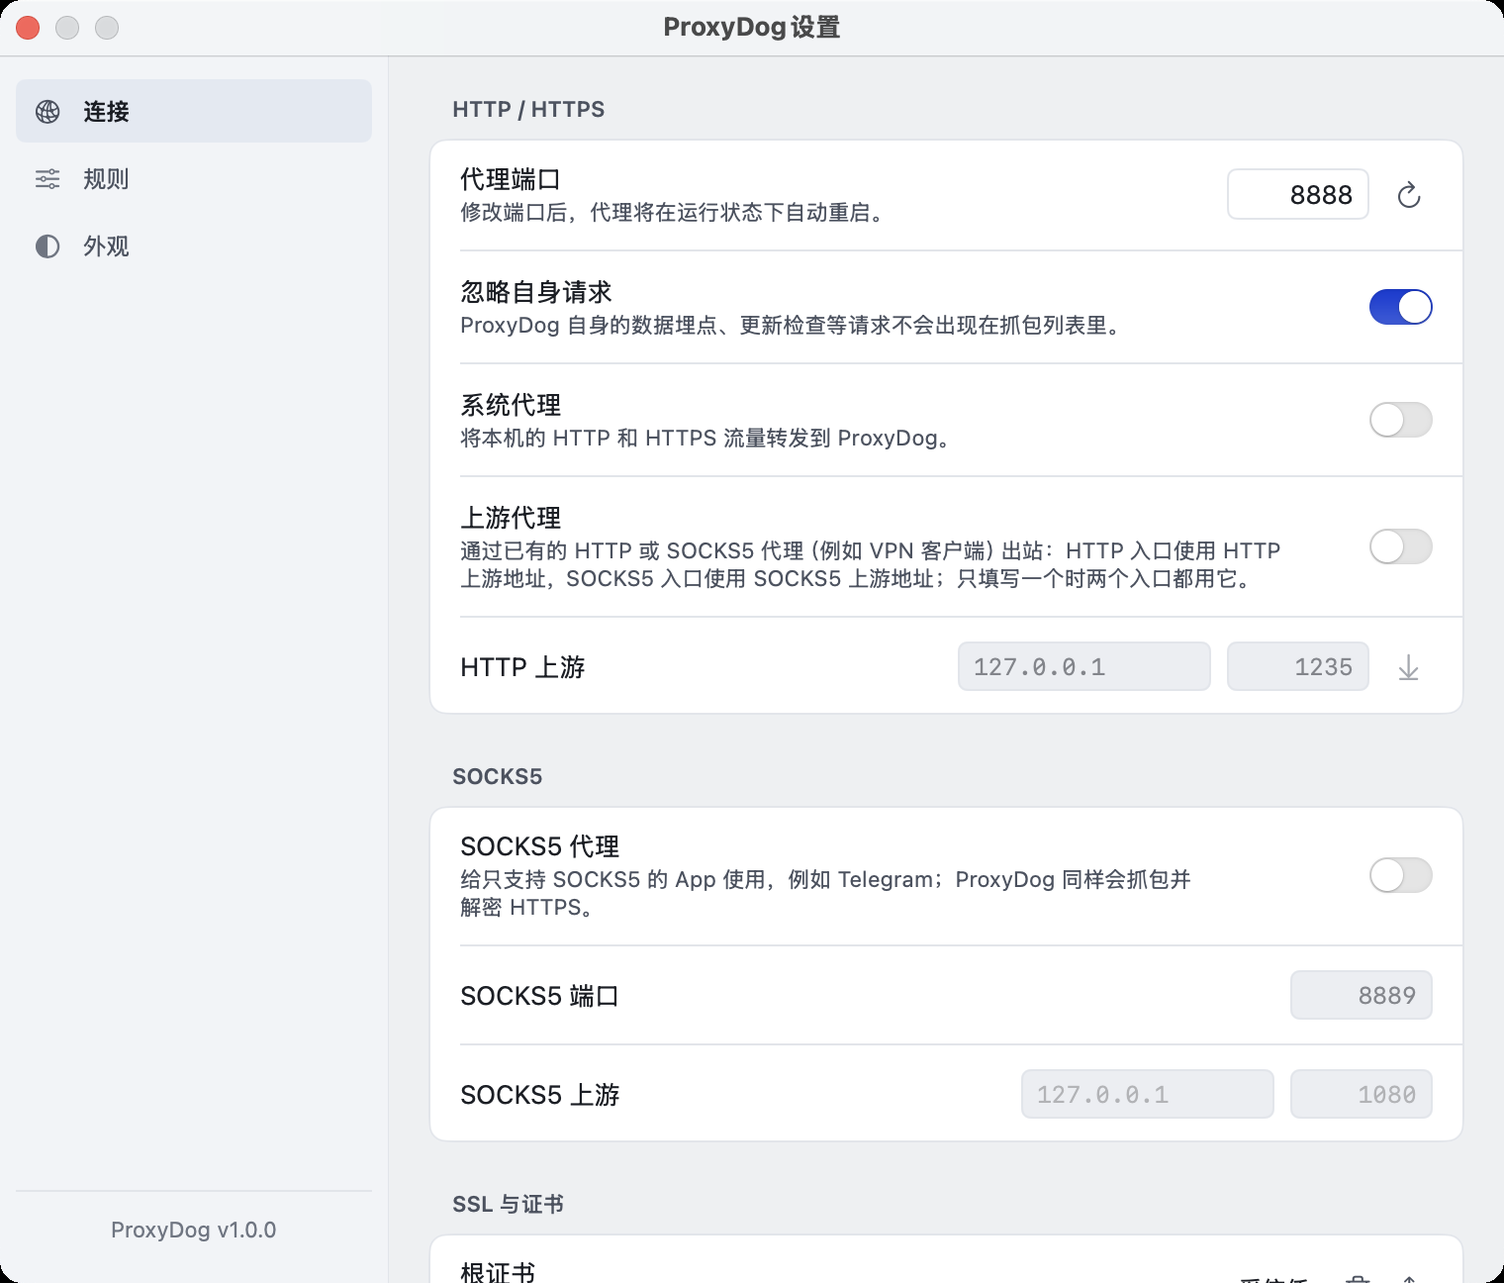
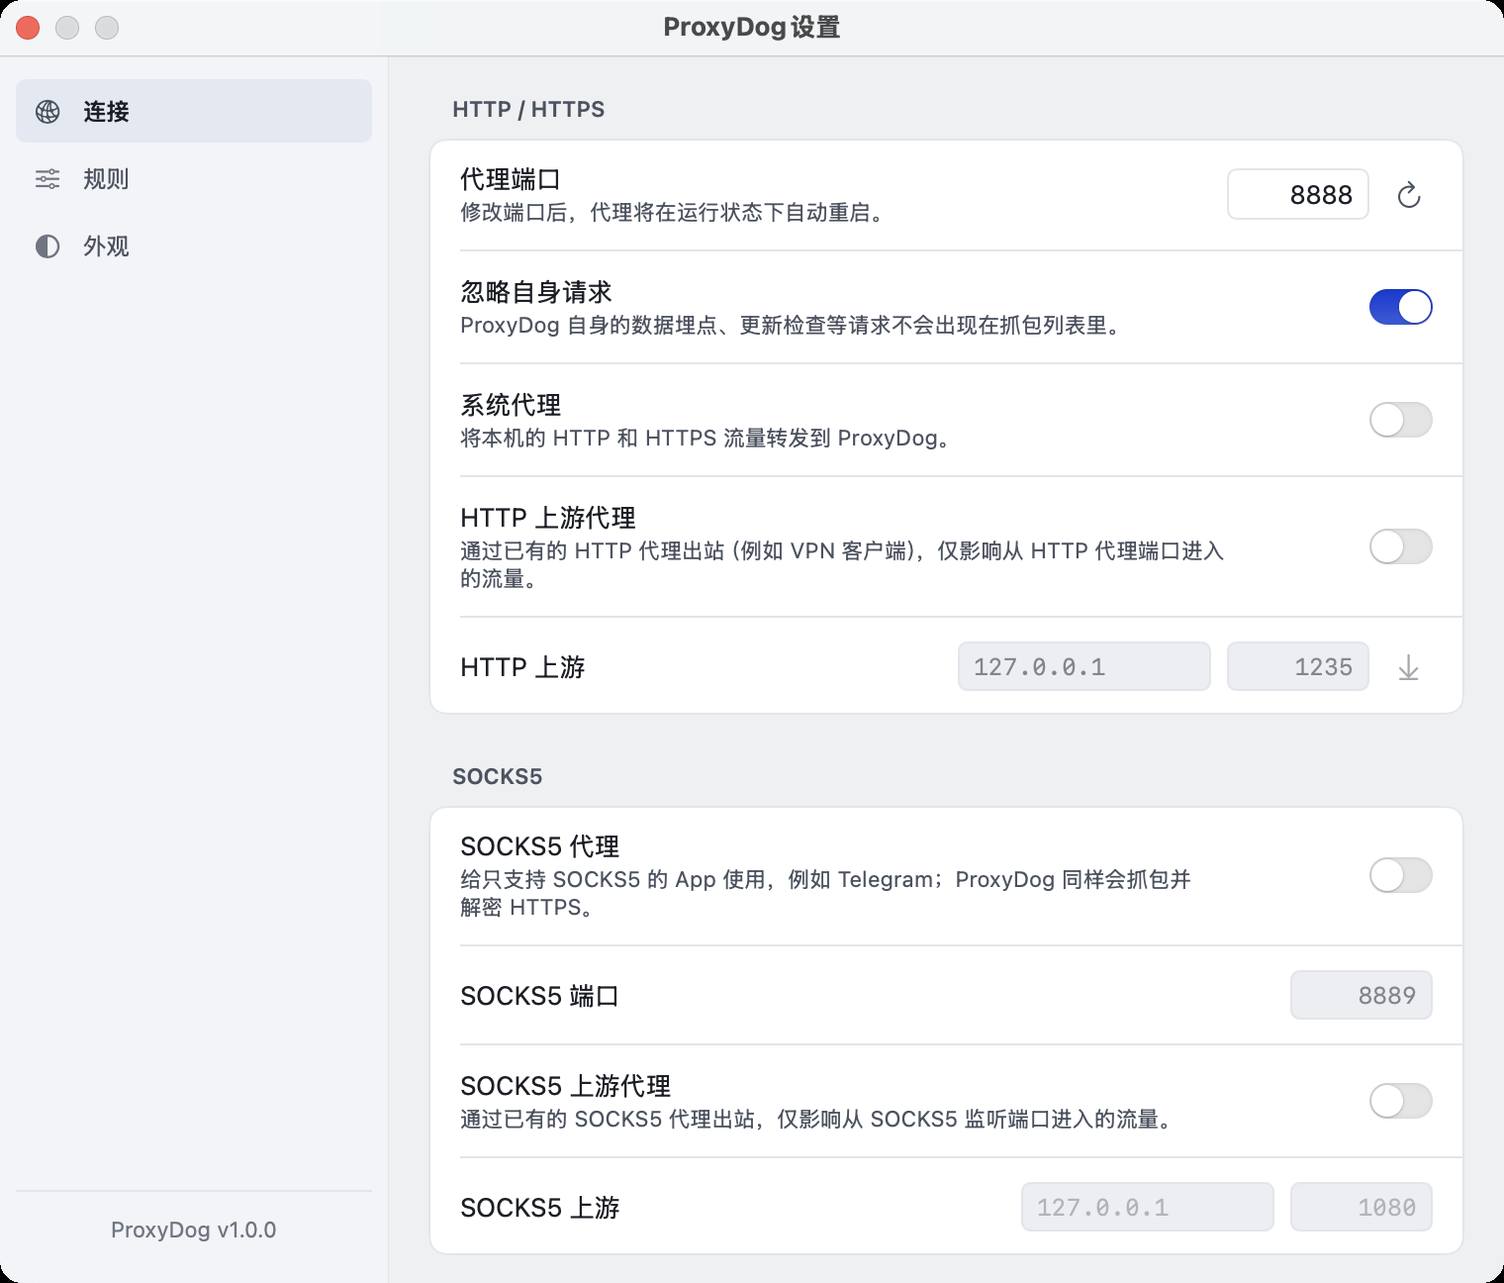
Give the HTTP and SOCKS5 upstreams independent switches

diff --git a/Sources/ProxyDog/UI/SettingsView.swift b/Sources/ProxyDog/UI/SettingsView.swift
@@ -251,18 +251,18 @@ struct SettingsView: View {
                 }
                 SettingsHairline()
                 SettingsRow(
-                    title: "Upstream proxy",
-                    hint: "Sends outbound traffic through an existing proxy such as a VPN client. Traffic from the HTTP proxy uses the HTTP address, traffic from the SOCKS5 listener uses the SOCKS5 address; when only one is filled both use it."
+                    title: "HTTP upstream proxy",
+                    hint: "Chains outbound traffic through an existing HTTP proxy such as a VPN client. Only affects traffic entering through the HTTP proxy port."
                 ) {
                     Toggle("", isOn: Binding(
-                        get: { settings.upstreamProxyEnabled },
-                        set: { setUpstreamEnabled($0) }
+                        get: { settings.upstreamHTTPEnabled },
+                        set: { setUpstreamEnabled($0, kind: .httpConnect) }
                     ))
                     .labelsHidden()
                     .toggleStyle(.switch)
                     .controlSize(.small)
                     .tint(DSColor.accent)
-                    .accessibilityLabel("Upstream proxy")
+                    .accessibilityLabel("HTTP upstream proxy")
                 }
                 SettingsHairline()
                 SettingsRow(
@@ -278,12 +278,12 @@ struct SettingsView: View {
                             .frame(width: 112)
                             .padding(.horizontal, DS.Space.x2)
                             .padding(.vertical, 5)
-                            .background(fieldBackground(isFocused: upstreamHTTPHostFocused, isEnabled: settings.upstreamProxyEnabled))
+                            .background(fieldBackground(isFocused: upstreamHTTPHostFocused, isEnabled: settings.upstreamHTTPEnabled))
                             .onSubmit { commitUpstreamAddress(.httpConnect) }
                             .onChange(of: upstreamHTTPHostFocused) { _, focused in
                                 if !focused { commitUpstreamAddress(.httpConnect) }
                             }
-                            .disabled(!settings.upstreamProxyEnabled)
+                            .disabled(!settings.upstreamHTTPEnabled)
                         TextField(detectedUpstreamPort, text: $upstreamHTTPPortText)
                             .textFieldStyle(.plain)
                             .font(DS.Typography.mono(12))
@@ -293,7 +293,7 @@ struct SettingsView: View {
                             .frame(width: 56)
                             .padding(.horizontal, DS.Space.x2)
                             .padding(.vertical, 5)
-                            .background(fieldBackground(isFocused: upstreamHTTPPortFocused, isEnabled: settings.upstreamProxyEnabled))
+                            .background(fieldBackground(isFocused: upstreamHTTPPortFocused, isEnabled: settings.upstreamHTTPEnabled))
                             .onSubmit { commitUpstreamAddress(.httpConnect) }
                             .onChange(of: upstreamHTTPPortText) { _, newValue in
                                 let filtered = String(newValue.filter(\.isNumber).prefix(5))
@@ -302,13 +302,13 @@ struct SettingsView: View {
                             .onChange(of: upstreamHTTPPortFocused) { _, focused in
                                 if !focused { commitUpstreamAddress(.httpConnect) }
                             }
-                            .disabled(!settings.upstreamProxyEnabled)
+                            .disabled(!settings.upstreamHTTPEnabled)
                         SettingsIconButton(
                             systemName: "arrow.down.to.line",
                             help: String(localized: "Fill from system proxy"),
                             action: fillUpstreamFromSystem
                         )
-                        .disabled(!settings.upstreamProxyEnabled)
+                        .disabled(!settings.upstreamHTTPEnabled)
                     }
                 }
             }
@@ -354,6 +354,21 @@ struct SettingsView: View {
                 }
                 SettingsHairline()
                 SettingsRow(
+                    title: "SOCKS5 upstream proxy",
+                    hint: "Chains traffic from the SOCKS5 listener through an existing SOCKS5 proxy. Only affects traffic entering through the SOCKS5 listener port."
+                ) {
+                    Toggle("", isOn: Binding(
+                        get: { settings.upstreamSOCKSEnabled },
+                        set: { setUpstreamEnabled($0, kind: .socks5) }
+                    ))
+                    .labelsHidden()
+                    .toggleStyle(.switch)
+                    .controlSize(.small)
+                    .tint(DSColor.accent)
+                    .accessibilityLabel("SOCKS5 upstream proxy")
+                }
+                SettingsHairline()
+                SettingsRow(
                     title: "SOCKS5 upstream",
                     errorText: upstreamErrorKind == .socks5 ? upstreamError : nil
                 ) {
@@ -366,12 +381,12 @@ struct SettingsView: View {
                             .frame(width: 112)
                             .padding(.horizontal, DS.Space.x2)
                             .padding(.vertical, 5)
-                            .background(fieldBackground(isFocused: upstreamSOCKSHostFocused, isEnabled: settings.upstreamProxyEnabled))
+                            .background(fieldBackground(isFocused: upstreamSOCKSHostFocused, isEnabled: settings.upstreamSOCKSEnabled))
                             .onSubmit { commitUpstreamAddress(.socks5) }
                             .onChange(of: upstreamSOCKSHostFocused) { _, focused in
                                 if !focused { commitUpstreamAddress(.socks5) }
                             }
-                            .disabled(!settings.upstreamProxyEnabled)
+                            .disabled(!settings.upstreamSOCKSEnabled)
                         TextField("1080", text: $upstreamSOCKSPortText)
                             .textFieldStyle(.plain)
                             .font(DS.Typography.mono(12))
@@ -381,7 +396,7 @@ struct SettingsView: View {
                             .frame(width: 56)
                             .padding(.horizontal, DS.Space.x2)
                             .padding(.vertical, 5)
-                            .background(fieldBackground(isFocused: upstreamSOCKSPortFocused, isEnabled: settings.upstreamProxyEnabled))
+                            .background(fieldBackground(isFocused: upstreamSOCKSPortFocused, isEnabled: settings.upstreamSOCKSEnabled))
                             .onSubmit { commitUpstreamAddress(.socks5) }
                             .onChange(of: upstreamSOCKSPortText) { _, newValue in
                                 let filtered = String(newValue.filter(\.isNumber).prefix(5))
@@ -390,7 +405,7 @@ struct SettingsView: View {
                             .onChange(of: upstreamSOCKSPortFocused) { _, focused in
                                 if !focused { commitUpstreamAddress(.socks5) }
                             }
-                            .disabled(!settings.upstreamProxyEnabled)
+                            .disabled(!settings.upstreamSOCKSEnabled)
                     }
                 }
             }
@@ -590,6 +605,7 @@ struct SettingsView: View {
         portError = nil
         syncUpstreamFields()
         upstreamError = nil
+        upstreamErrorKind = nil
         socksPortText = String(settings.socksProxyPort)
         socksError = nil
         language = AppLanguage.stored
@@ -622,12 +638,11 @@ struct SettingsView: View {
         return Int(text.trimmingCharacters(in: .whitespaces)) ?? 0
     }
 
-    private func setUpstreamEnabled(_ enabled: Bool) {
+    private func setUpstreamEnabled(_ enabled: Bool, kind: UpstreamProxyKind) {
         upstreamHTTPHostFocused = false
         upstreamHTTPPortFocused = false
         upstreamSOCKSHostFocused = false
         upstreamSOCKSPortFocused = false
-        let kind = settings.effectiveUpstreamKind
         if let error = state.applyUpstreamProxy(
             enabled: enabled,
             host: settings.upstreamHost(for: kind),
@@ -636,7 +651,7 @@ struct SettingsView: View {
         ) {
             // Nothing is applied on failure, so the switch falls back to off.
             upstreamError = error
-            upstreamErrorKind = settings.effectiveUpstreamKind
+            upstreamErrorKind = kind
             return
         }
         upstreamError = nil
@@ -648,7 +663,7 @@ struct SettingsView: View {
         let host = hostText(for: kind)
         let port = parsedPort(for: kind)
         if let error = state.applyUpstreamProxy(
-            enabled: settings.upstreamProxyEnabled,
+            enabled: settings.upstreamEnabled(for: kind),
             host: host,
             port: port,
             kind: kind
@@ -669,10 +684,10 @@ struct SettingsView: View {
         refreshDetectedUpstream()
         syncUpstreamFields()
 
-        guard settings.upstreamProxyEnabled else { return }
+        guard settings.upstreamHTTPEnabled else { return }
         let host = settings.upstreamHost(for: .httpConnect)
         let port = settings.upstreamPort(for: .httpConnect)
-        if let error = state.applyUpstreamProxy(enabled: true, host: host, port: port, kind: .httpConnect) {
+        if let error = state.applyUpstreamProxy(enabled: settings.upstreamHTTPEnabled, host: host, port: port, kind: .httpConnect) {
             upstreamError = error
             upstreamErrorKind = .httpConnect
             // Keep the pane consistent: an invalid detected address never stays enabled.

diff --git a/Sources/ProxyDog/AppState.swift b/Sources/ProxyDog/AppState.swift
@@ -175,6 +175,7 @@ final class AppState: ObservableObject {
         guard !proxy.status.isRunning else { return }
         proxy.port = settings.port
         proxy.sslProxyingEnabled = settings.sslProxyingEnabled
+        proxy.socksUpstreamFallbackToHTTP = false
         proxy.upstreamProxy = upstreamProxyFromSettings()
         proxy.socksUpstreamProxy = socksUpstreamProxyFromSettings()
         proxy.socksPort = socksProxyFromSettings()
@@ -206,6 +207,7 @@ final class AppState: ObservableObject {
         }
         proxy.port = settings.port
         proxy.sslProxyingEnabled = settings.sslProxyingEnabled
+        proxy.socksUpstreamFallbackToHTTP = false
         proxy.upstreamProxy = upstreamProxyFromSettings()
         proxy.socksUpstreamProxy = socksUpstreamProxyFromSettings()
         proxy.socksPort = socksProxyFromSettings()
@@ -240,60 +242,47 @@ final class AppState: ObservableObject {
         var port = port
         var kind = requestedKind
         // Turning the switch on with an empty address: use the detected system proxy first.
-        if enabled, host.trimmingCharacters(in: .whitespacesAndNewlines).isEmpty,
+        if enabled, host.trimmingCharacters(in: .whitespacesAndNewlines).isEmpty, kind == .httpConnect,
            let detected = detectSystemUpstreamProxy() {
             host = detected.host
             port = detected.port
-            kind = .httpConnect
         }
         let trimmedHost = host.trimmingCharacters(in: .whitespacesAndNewlines)
         let previousHost = settings.upstreamHost(for: kind)
         let previousPort = settings.upstreamPort(for: kind)
-        let previousEnabled = settings.upstreamProxyEnabled
-        let previousKind = settings.upstreamProxyKind
+        let previousEnabled = settings.upstreamEnabled(for: kind)
 
         settings.setUpstreamAddress(host: trimmedHost, port: port, kind: kind)
         func rollback() {
             settings.setUpstreamAddress(host: previousHost, port: previousPort, kind: kind)
-            settings.upstreamProxyKind = previousKind
-            settings.upstreamProxyEnabled = previousEnabled
         }
 
         if enabled {
-            let pairs = [UpstreamProxyKind.httpConnect, .socks5].compactMap { candidateKind -> UpstreamProxy? in
-                let candidateHost = settings.upstreamHost(for: candidateKind)
-                    .trimmingCharacters(in: .whitespacesAndNewlines)
-                let candidatePort = settings.upstreamPort(for: candidateKind)
-                guard !candidateHost.isEmpty, (1...65535).contains(candidatePort) else { return nil }
-                return UpstreamProxy(kind: candidateKind, host: candidateHost, port: candidatePort)
-            }
-            guard !pairs.isEmpty else {
+            guard !trimmedHost.isEmpty else {
                 rollback()
-                if trimmedHost.isEmpty {
-                    return String(localized: "Enter the host of the upstream proxy.")
-                }
+                return String(localized: "Enter the host of the upstream proxy.")
+            }
+            guard (1...65535).contains(port) else {
+                rollback()
                 return String(localized: "Port must be between 1 and 65535.")
             }
-            for candidate in pairs {
-                if candidate.isLoopback, candidate.port == settings.port {
-                    rollback()
-                    return String(localized: "The upstream proxy cannot be ProxyDog itself.")
-                }
-                if candidate.isLoopback, settings.socksProxyEnabled, candidate.port == settings.socksProxyPort {
-                    rollback()
-                    return String(localized: "The upstream proxy cannot be ProxyDog itself.")
-                }
+            let candidate = UpstreamProxy(kind: kind, host: trimmedHost, port: port)
+            if candidate.isLoopback, candidate.port == settings.port {
+                rollback()
+                return String(localized: "The upstream proxy cannot be ProxyDog itself.")
+            }
+            if candidate.isLoopback, settings.socksProxyEnabled, candidate.port == settings.socksProxyPort {
+                rollback()
+                return String(localized: "The upstream proxy cannot be ProxyDog itself.")
             }
         }
 
-        let effectiveKind = upstreamProxy(for: .httpConnect) != nil ? UpstreamProxyKind.httpConnect : .socks5
         let changed = previousEnabled != enabled
-            || previousKind != effectiveKind
-            || settings.upstreamHost(for: kind) != previousHost
-            || settings.upstreamPort(for: kind) != previousPort
+            || previousHost != trimmedHost
+            || previousPort != port
 
-        settings.upstreamProxyEnabled = enabled
-        settings.upstreamProxyKind = effectiveKind
+        settings.setUpstreamEnabled(enabled, for: kind)
+        settings.upstreamProxyKind = settings.upstreamHost(for: .httpConnect).isEmpty ? .socks5 : .httpConnect
         proxy.upstreamProxy = upstreamProxyFromSettings()
         proxy.socksUpstreamProxy = socksUpstreamProxyFromSettings()
 
@@ -316,9 +305,11 @@ final class AppState: ObservableObject {
             if port == settings.port {
                 return String(localized: "The SOCKS5 port must differ from the HTTP proxy port.")
             }
-            if settings.upstreamProxyEnabled,
-               UpstreamProxy(host: settings.upstreamHost, port: settings.upstreamPort).isLoopback,
-               port == settings.upstreamPort {
+            if [UpstreamProxyKind.httpConnect, .socks5].contains(where: { kind in
+                settings.upstreamEnabled(for: kind)
+                    && settings.upstreamHost(for: kind).hasPrefix("127.")
+                    && port == settings.upstreamPort(for: kind)
+            }) {
                 return String(localized: "The SOCKS5 port must differ from the upstream proxy port.")
             }
         }
@@ -379,23 +370,21 @@ final class AppState: ObservableObject {
 
     /// Valid upstream for one protocol, nil when disabled or the address is incomplete.
     func upstreamProxy(for kind: UpstreamProxyKind) -> UpstreamProxy? {
-        guard settings.upstreamProxyEnabled else { return nil }
+        guard settings.upstreamEnabled(for: kind) else { return nil }
         let host = settings.upstreamHost(for: kind).trimmingCharacters(in: .whitespacesAndNewlines)
         let port = settings.upstreamPort(for: kind)
         guard !host.isEmpty, (1...65535).contains(port) else { return nil }
         return UpstreamProxy(kind: kind, host: host, port: port)
     }
 
-    /// Upstream for traffic arriving through the HTTP proxy: HTTP entry uses the HTTP
-    /// address; when only SOCKS5 is configured it falls back to that one.
+    /// Upstream for traffic arriving through the HTTP proxy.
     func upstreamProxyFromSettings() -> UpstreamProxy? {
-        upstreamProxy(for: .httpConnect) ?? upstreamProxy(for: .socks5)
+        upstreamProxy(for: .httpConnect)
     }
 
-    /// Upstream for traffic arriving through the SOCKS5 listener: SOCKS5 entry uses the
-    /// SOCKS5 address, falling back to the HTTP one when it is the only one configured.
+    /// Upstream for traffic arriving through the SOCKS5 listener.
     func socksUpstreamProxyFromSettings() -> UpstreamProxy? {
-        upstreamProxy(for: .socks5) ?? upstreamProxy(for: .httpConnect)
+        upstreamProxy(for: .socks5)
     }
 
     /// Reads the web proxy of the first active network service via `networksetup`.
@@ -468,7 +457,7 @@ final class AppState: ObservableObject {
     /// that need the VPN are reachable without looping through ProxyDog.
     private func syncFaviconRoute() {
         FaviconStore.shared.updateRoute(
-            upstream: upstreamProxyFromSettings(),
+            upstream: upstreamProxyFromSettings() ?? socksUpstreamProxyFromSettings(),
             ownPort: settings.port
         )
     }

diff --git a/Sources/ProxyDog/Models/AppSettings.swift b/Sources/ProxyDog/Models/AppSettings.swift
@@ -35,7 +35,10 @@ final class AppSettings: ObservableObject {
         static let sslEnabled = "proxy.sslProxyingEnabled"
         static let systemProxy = "proxy.systemProxyEnabled"
         static let capacity = "capture.capacity"
-        static let upstreamEnabled = "proxy.upstreamEnabled"
+        static let upstreamHTTPEnabled = "proxy.upstreamHTTPEnabled"
+        static let upstreamSOCKSEnabled = "proxy.upstreamSOCKSEnabled"
+        // Legacy single upstream switch, used for migration.
+        static let legacyUpstreamEnabled = "proxy.upstreamEnabled"
         static let upstreamKind = "proxy.upstreamKind"
         static let upstreamHTTPHost = "proxy.upstreamHTTPHost"
         static let upstreamHTTPPort = "proxy.upstreamHTTPPort"
@@ -71,9 +74,25 @@ final class AppSettings: ObservableObject {
         didSet { defaults.set(systemProxyEnabled, forKey: Key.systemProxy) }
     }
 
-    /// Chain outbound traffic through an existing HTTP proxy (VPN client).
-    @Published var upstreamProxyEnabled: Bool {
-        didSet { defaults.set(upstreamProxyEnabled, forKey: Key.upstreamEnabled) }
+    /// Chain HTTP-proxy traffic through the HTTP upstream (VPN client).
+    @Published var upstreamHTTPEnabled: Bool {
+        didSet { defaults.set(upstreamHTTPEnabled, forKey: Key.upstreamHTTPEnabled) }
+    }
+
+    /// Chain SOCKS5-listener traffic through the SOCKS5 upstream.
+    @Published var upstreamSOCKSEnabled: Bool {
+        didSet { defaults.set(upstreamSOCKSEnabled, forKey: Key.upstreamSOCKSEnabled) }
+    }
+
+    func upstreamEnabled(for kind: UpstreamProxyKind) -> Bool {
+        kind == .httpConnect ? upstreamHTTPEnabled : upstreamSOCKSEnabled
+    }
+
+    func setUpstreamEnabled(_ enabled: Bool, for kind: UpstreamProxyKind) {
+        switch kind {
+        case .httpConnect: upstreamHTTPEnabled = enabled
+        case .socks5: upstreamSOCKSEnabled = enabled
+        }
     }
 
     /// HTTP upstream address (kept separately from SOCKS5 so both can be filled in).
@@ -159,7 +178,9 @@ final class AppSettings: ObservableObject {
         self.hasCompletedOnboarding = defaults.bool(forKey: Key.onboarding)
         self.sslProxyingEnabled = defaults.object(forKey: Key.sslEnabled) as? Bool ?? true
         self.systemProxyEnabled = defaults.bool(forKey: Key.systemProxy)
-        self.upstreamProxyEnabled = defaults.bool(forKey: Key.upstreamEnabled)
+        let legacyUpstreamEnabled = defaults.object(forKey: Key.legacyUpstreamEnabled) as? Bool ?? false
+        self.upstreamHTTPEnabled = defaults.object(forKey: Key.upstreamHTTPEnabled) as? Bool ?? legacyUpstreamEnabled
+        self.upstreamSOCKSEnabled = defaults.object(forKey: Key.upstreamSOCKSEnabled) as? Bool ?? legacyUpstreamEnabled
         let storedKind = UpstreamProxyKind(rawValue: defaults.string(forKey: Key.upstreamKind) ?? "") ?? .httpConnect
         self.upstreamProxyKind = storedKind
         // Migrate the old single-address configuration into the matching protocol slot.

diff --git a/Sources/ProxyDog/Core/ProxyServer.swift b/Sources/ProxyDog/Core/ProxyServer.swift
@@ -62,6 +62,10 @@ final class ProxyServer: @unchecked Sendable {
     /// entry points can chain through different proxies.
     var socksUpstreamProxy: UpstreamProxy?
 
+    /// Headless runs only configure `upstreamProxy`; fall back to it for SOCKS5 entries.
+    /// The app sets this to false so each listener's own switch is authoritative.
+    var socksUpstreamFallbackToHTTP = true
+
     /// When set, ProxyDog also accepts SOCKS5 clients on 127.0.0.1:<socksPort> and
     /// intercepts their traffic the same way it does for HTTP-proxy clients.
     var socksPort: Int?
@@ -147,9 +151,9 @@ final class ProxyServer: @unchecked Sendable {
             self?.upstreamProxy
         }
         let socksUpstreamProxyProvider: @Sendable () -> UpstreamProxy? = { [weak self] in
-            // Headless runs and single-upstream setups only set the HTTP slot; fall back to
-            // it so the SOCKS5 listener still chains through the configured proxy.
-            self?.socksUpstreamProxy ?? self?.upstreamProxy
+            guard let self else { return nil }
+            return self.socksUpstreamProxy
+                ?? (self.socksUpstreamFallbackToHTTP ? self.upstreamProxy : nil)
         }
         let bootstrap = ServerBootstrap(group: group)
             .serverChannelOption(ChannelOptions.socketOption(.so_reuseaddr), value: 1)
